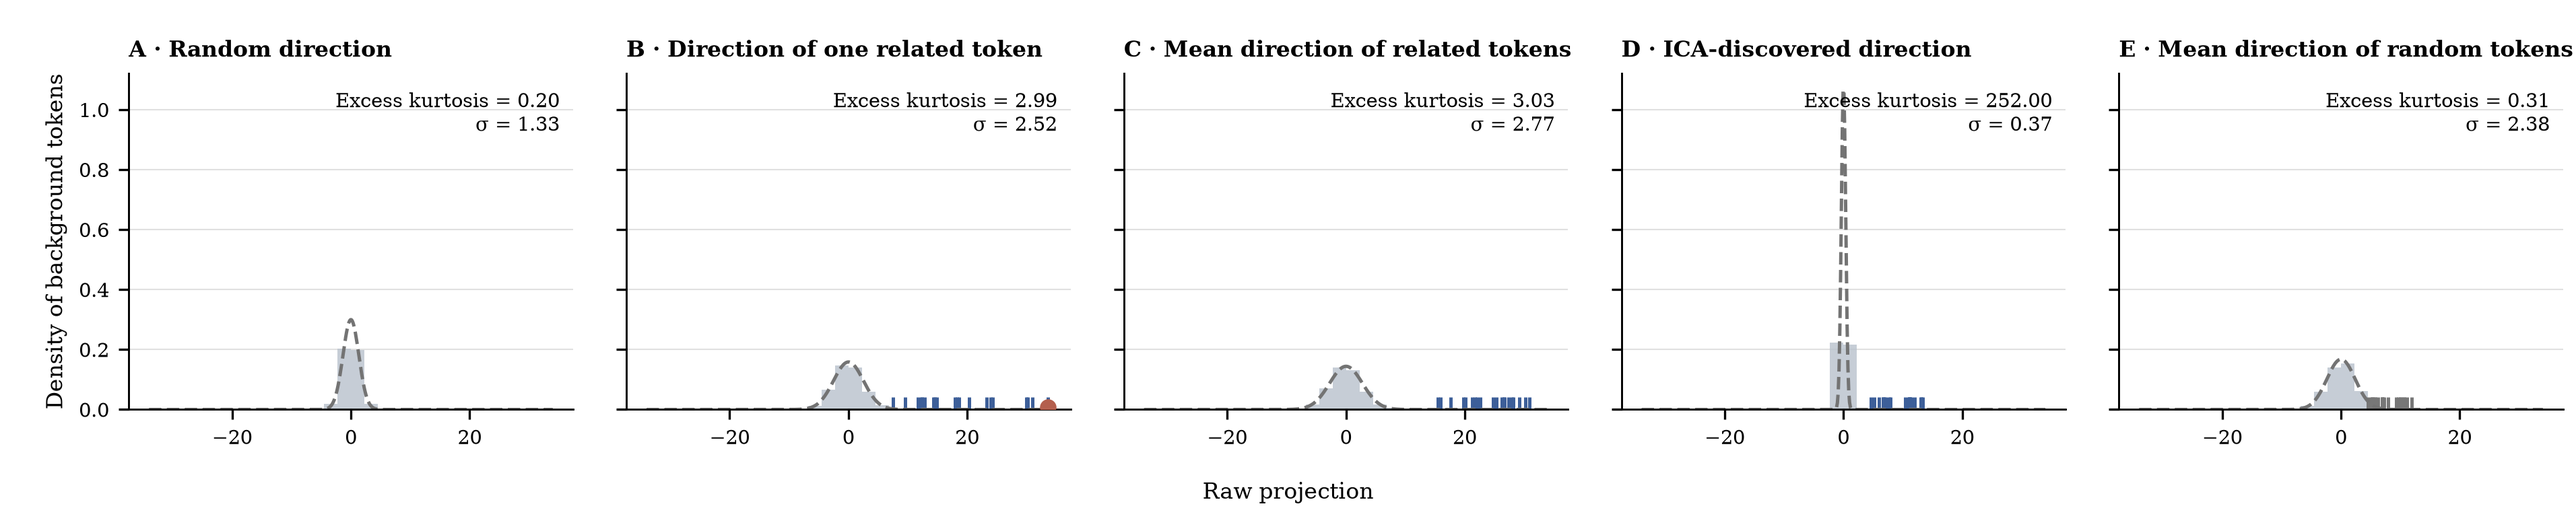
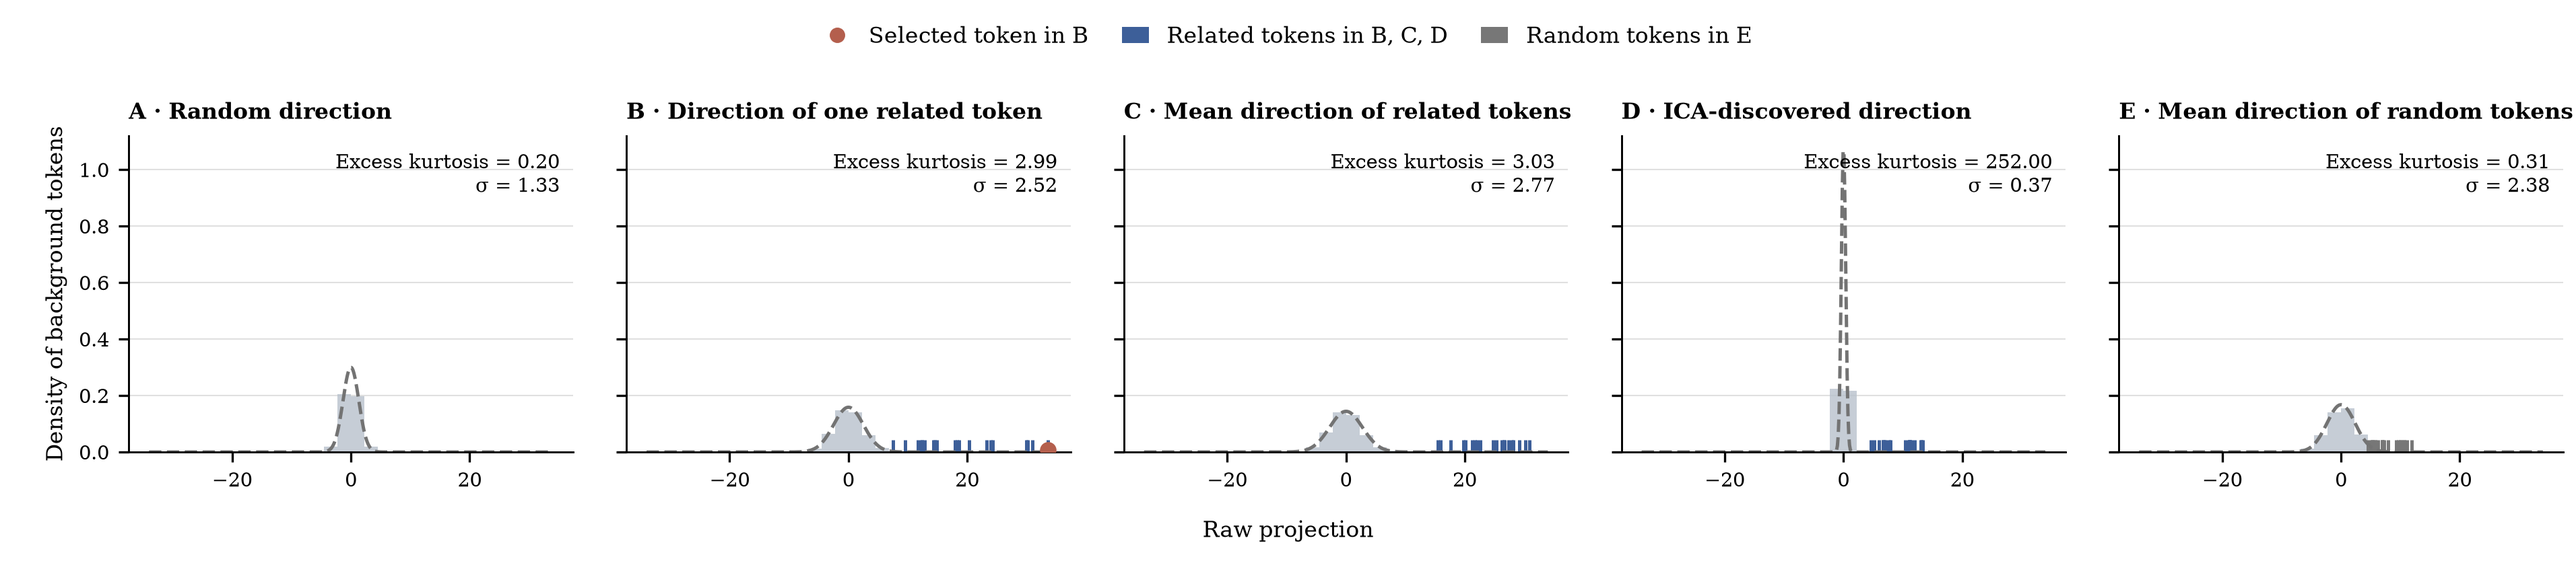
Label token groups in toy projection figure

diff --git a/experiments/toy-example/scripts/analyze.py b/experiments/toy-example/scripts/analyze.py
@@ -10,6 +10,8 @@ from pathlib import Path
 import matplotlib.pyplot as plt
 import numpy as np
 import torch
+from matplotlib.lines import Line2D
+from matplotlib.patches import Patch
 from safetensors.torch import load_file
 from scipy.stats import jarque_bera, kurtosis, norm, skew
 
@@ -349,7 +351,7 @@ def _plot_raw_row(
               "c1": "D · ICA-discovered direction",
               "d": "E · Mean direction of random tokens"}
     with plt.rc_context(style):
-        fig, axes = plt.subplots(1, 5, figsize=(12.75, 2.6), sharex=True, sharey=True)
+        fig, axes = plt.subplots(1, 5, figsize=(12.75, 2.8), sharex=True, sharey=True)
         for ax, name in zip(axes, order, strict=True):
             values = values_by_name[name]
             bg = (background & evaluation_masks[name]).numpy()
@@ -376,9 +378,18 @@ def _plot_raw_row(
             ax.spines[["top", "right"]].set_visible(False)
             ax.grid(axis="y", color="0.88", linewidth=0.5)
             ax.set_axisbelow(True)
+        legend_handles = [
+            Line2D([], [], color=COLORS["target"], marker="o", linestyle="None",
+                   markersize=4.5, label="Selected token in B"),
+            Patch(facecolor=COLORS["concept"], edgecolor="none",
+                  label="Related tokens in B, C, D"),
+            Patch(facecolor=COLORS["random"], edgecolor="none", label="Random tokens in E"),
+        ]
+        fig.legend(handles=legend_handles, loc="upper center", ncol=3, frameon=False,
+                   bbox_to_anchor=(0.5, 0.99), handlelength=1.2, columnspacing=1.5)
         axes[0].set_ylabel("Density of background tokens")
         fig.supxlabel("Raw projection", y=0.04, fontsize=8)
-        fig.subplots_adjust(left=0.05, right=0.995, bottom=0.22, top=0.86, wspace=0.12)
+        fig.subplots_adjust(left=0.05, right=0.995, bottom=0.2, top=0.76, wspace=0.12)
         _save(fig, output / "directions-row-raw")
 
 
